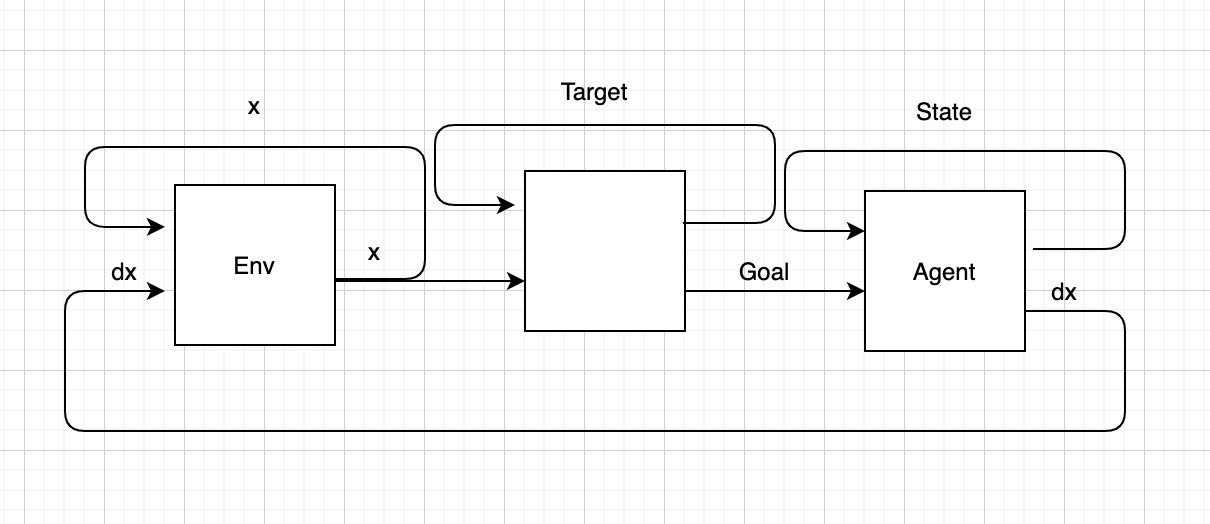
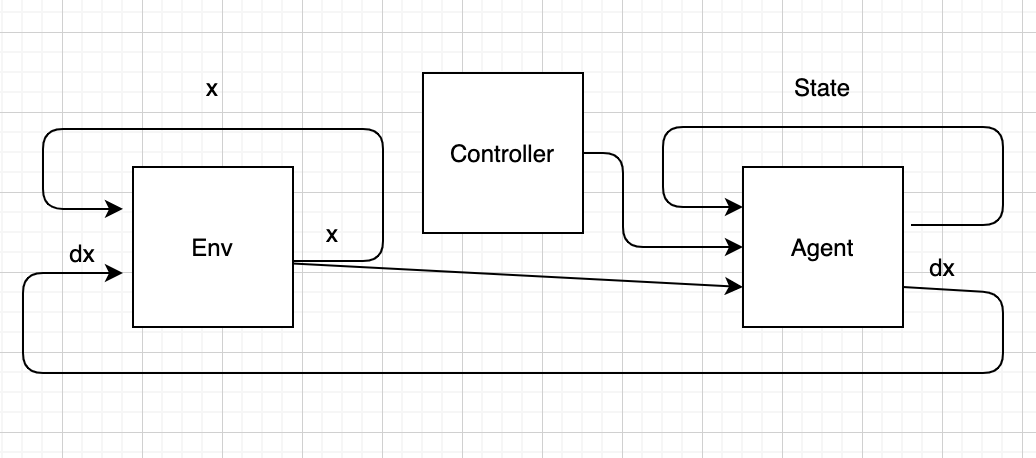
more notes

diff --git a/README.md b/README.md
@@ -28,33 +28,40 @@ So it's equivalent to the term `(+ (d i) o)` and therefore `(+ (- i (+ i)) o)`. 
 
 ### TODO
 
-#### Main
-- compiler support for multiple o's
-- compiler should produce an initial state vector
-    - use this to implement constants (just need a permanent 1 in the state vector)
-- implement environment in PID example as it's own agent
-    - this just requires a nice way to hook agents together
-    - draw this out first
+- Think more generally about these agents and their connections
+    - They're related to monoidal category diagrams
+    - The interpreter of a diagram is itself an agent, and it's state is the data on the wires
+- Agents
+    - use named i/s/o values
+        - Agents should maintain correspondence between names and indices
+    - use square `(I ++ S ++ O) -> (I ++ S ++ O)` matrices?
+- Completely rewrite the compiler
+    - *don't conflate node ids with array indices*
+        - utilize named i/s/o instead
+    - handle nodes which are multiple of i/s/o
+    - produce initial state vector
+- Main
+    - implement environment in PID example as it's own agent
+        - this just requires a nice way to hook agents together
+        - draw this out first
+    - compiler should produce an initial state vector
+        - use this to implement constants (just need a permanent 1 in the state vector)
+    - compiler support for multiple o's
+- Main2
+    - support operations: 
+        - we want `M :: (ISO ++ log(ISO) ++ exp(ISO) ++ ...) -> (S ++ O)`, where `ISO := (I ++ S ++ O)`
+        - see diagram below
+        - FIXME: this fails because 0 * inf == nan
+    - more forms in the compiled language
+        - ex: `(* x y) := (exp (+ (log x) (log y)))`
+- Maybe
+    - program synthesis (backprop)
+    - optimize the compiled output
 
-#### Main2
-- support operations: 
-    - we want `M :: (ISO ++ log(ISO) ++ exp(ISO) ++ ...) -> (S ++ O)`, where `ISO := (I ++ S ++ O)`
-    - see diagram below
-    - FIXME: this fails because 0 * inf == nan
-- more forms in the compiled language
-    - ex: `(* x y) := (exp (+ (log x) (log y)))`
-
-#### Maybe
-- make `comp` less bad. ids of nodes shouldn't also be their matrix/vector index.
-    - use symbols/strings as the ids. ex: i0, s0, o0
-    - have to deal with nodes which are both outputs and state used by other outputs.
-- program synthesis (backprop)
-- optimize the compiled output
-- use square `(I ++ S ++ O) -> (I ++ S ++ O)` matrices and use composition
-    - this could speed up very simple agents, but doesn't work for full agents
-
+### Diagrams
 
 ![Simple RNN with operations diagram](pics/diagram.jpg)
+![PID components](pics/agent_env.png)
 
 
 
